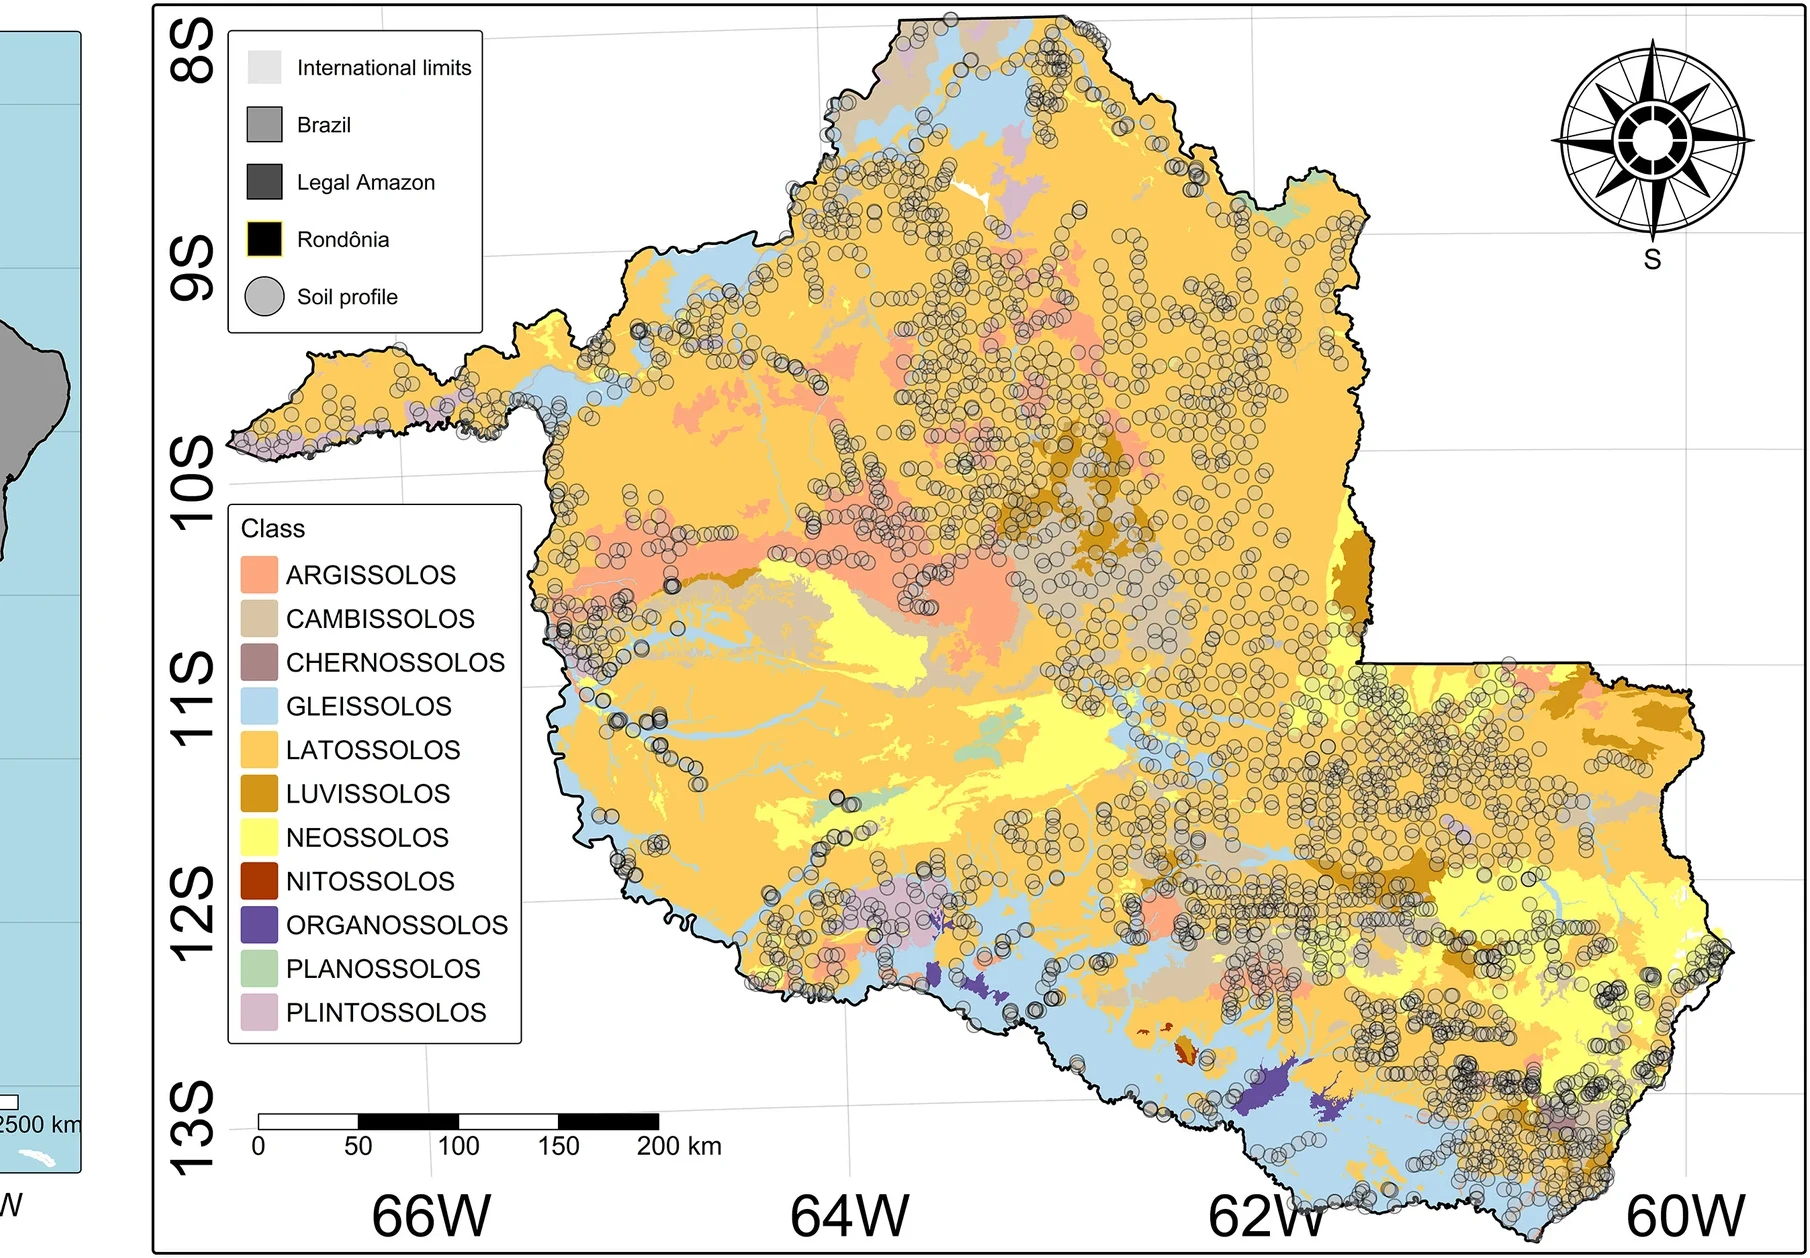
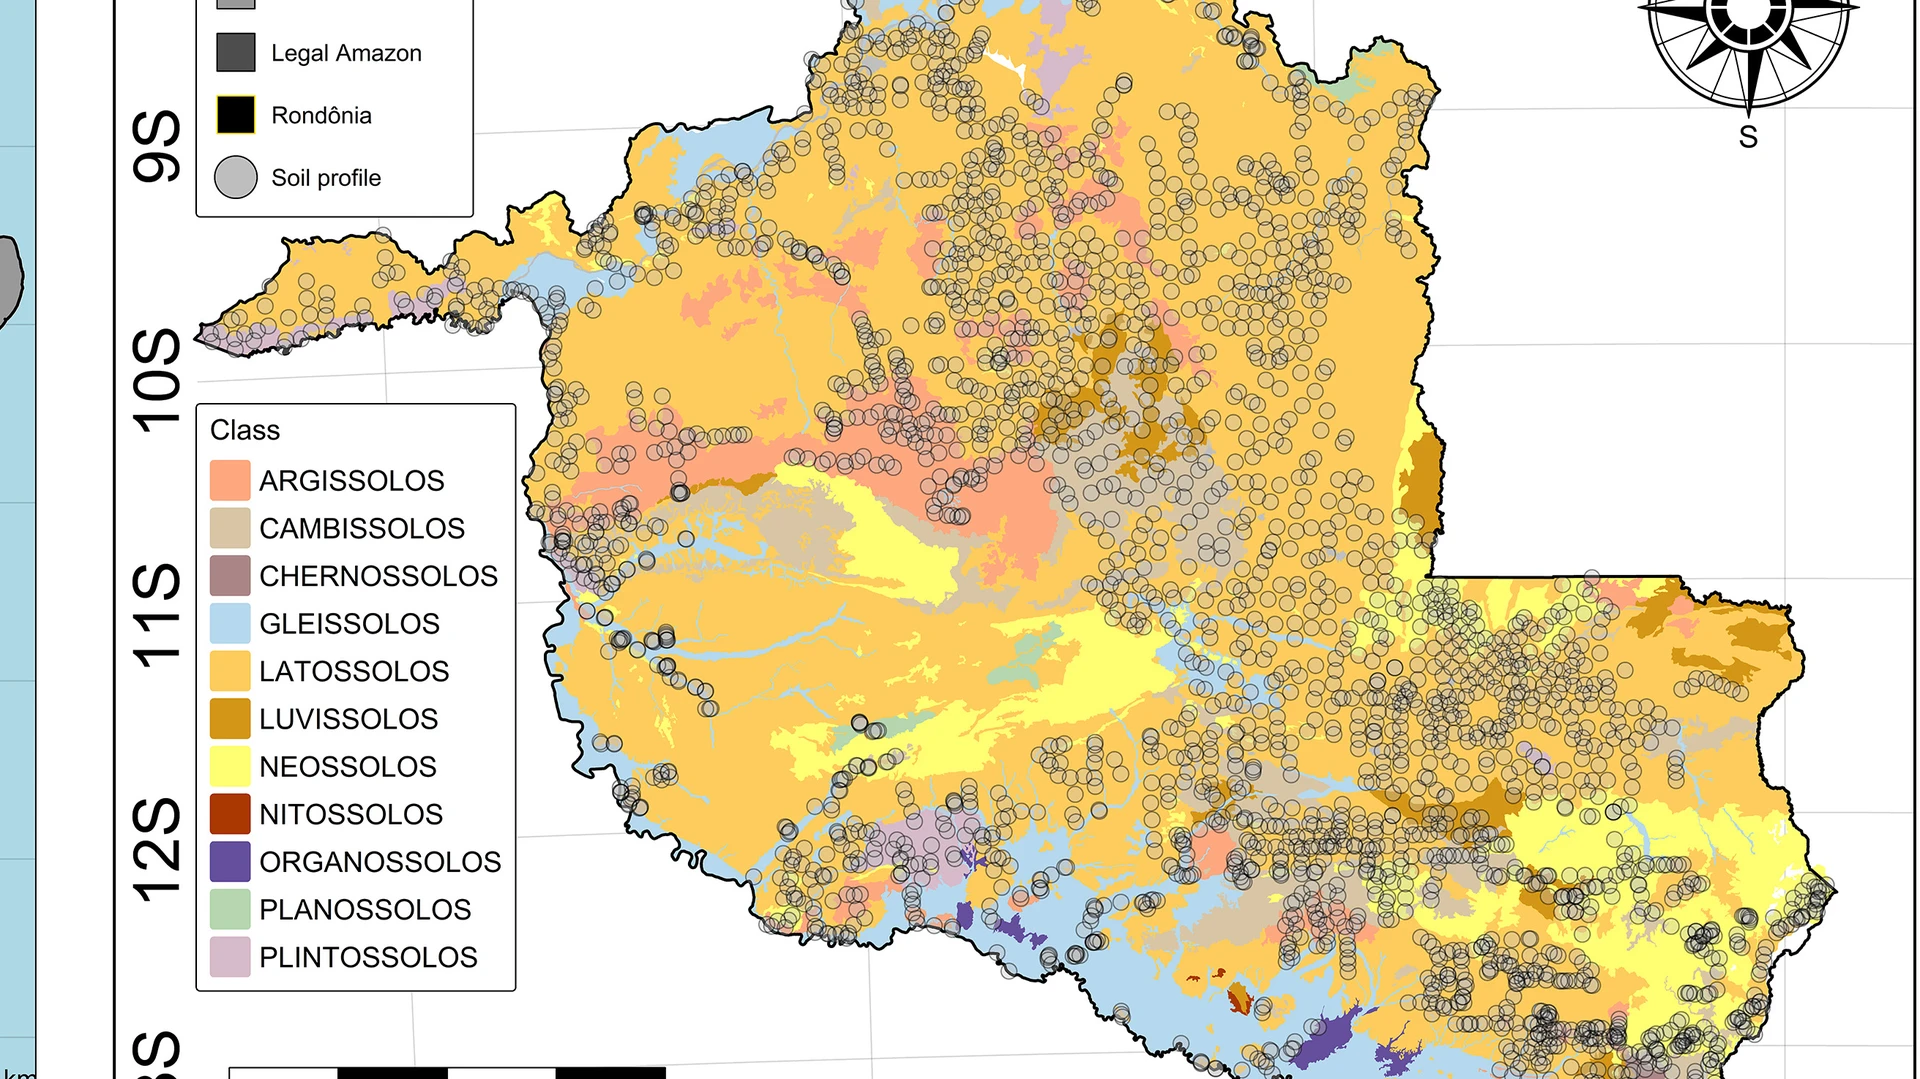
fix visual output: precise 16:9 crops from originals + aspect-ratio grid
Images re-cropped from original files at exact 16:9 ratio:
- map_tese.webp    2400x1350 — world SOC map, legend removed (centered crop)
- map_stoten.webp  1208x680  — Rs panel (a), clean global respiration map
- map_rondonia.webp 1920x1079 — main Rondonia map, locator removed

CSS: cards now use aspect-ratio:16/9 so background-size:cover
scales perfectly with zero additional CSS cropping.
Grid: 1fr 1fr columns, tese full-width (grid-column 1/3).

diff --git a/index.html b/index.html
@@ -785,7 +785,6 @@
     .visuals-grid {
       display: grid;
       grid-template-columns: 1fr 1fr;
-      grid-template-rows: 320px 300px;
       gap: 3px;
       border-radius: 4px;
       overflow: hidden;
@@ -795,9 +794,10 @@
       position: relative;
       overflow: hidden;
       margin: 0;
+      aspect-ratio: 16 / 9;
     }
 
-    /* tese: spans full width on top row */
+    /* tese: spans full width, top row */
     .visual-card:first-child { grid-column: 1 / 3; }
 
     .visual-bg {
@@ -909,7 +909,7 @@
       .section-head p { margin-top: 12px; }
       .bio-panel + .bio-panel { border-left: 0; border-top: 1px solid var(--line); }
       .links { justify-content: flex-start; }
-      .visuals-grid { grid-template-columns: 1fr; grid-template-rows: 260px 220px 220px; }
+      .visuals-grid { grid-template-columns: 1fr; }
       .visual-card:first-child { grid-column: auto; }
       .tool-group { grid-template-columns: 1fr; gap: 10px; }
     }
